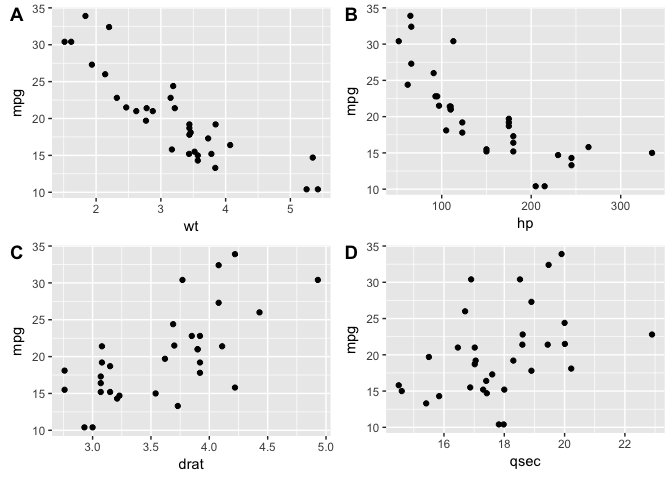
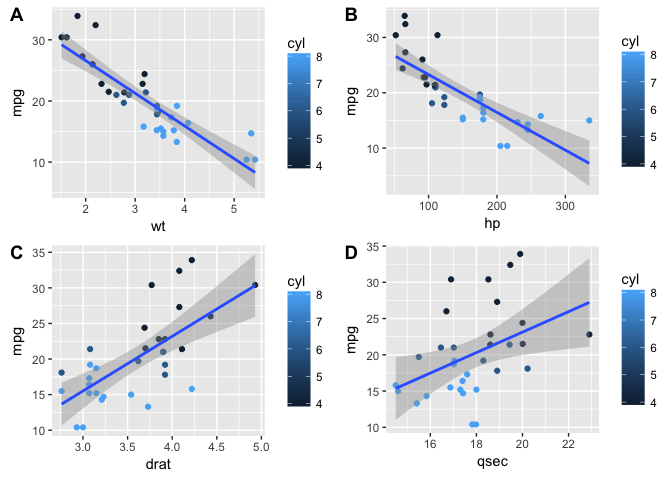
072517

diff --git a/readme.md b/readme.md
@@ -208,7 +208,7 @@ for(model.name in model.lists){
   x.name<-model.name%>%strsplit(.,"~")%>%.[[1]]%>%.[2]
   Fig.bymodel[[v]]<-model_mtcars%>%filter(modelxy==model.name)%>%
     unnest(data)%>%
-    ggplot(aes_string(x=x.name,y=y.name))+geom_point()
+    ggplot(aes_string(x=x.name,y=y.name,color="cyl"))+geom_point()+geom_smooth(method="lm")
   
   
 }
